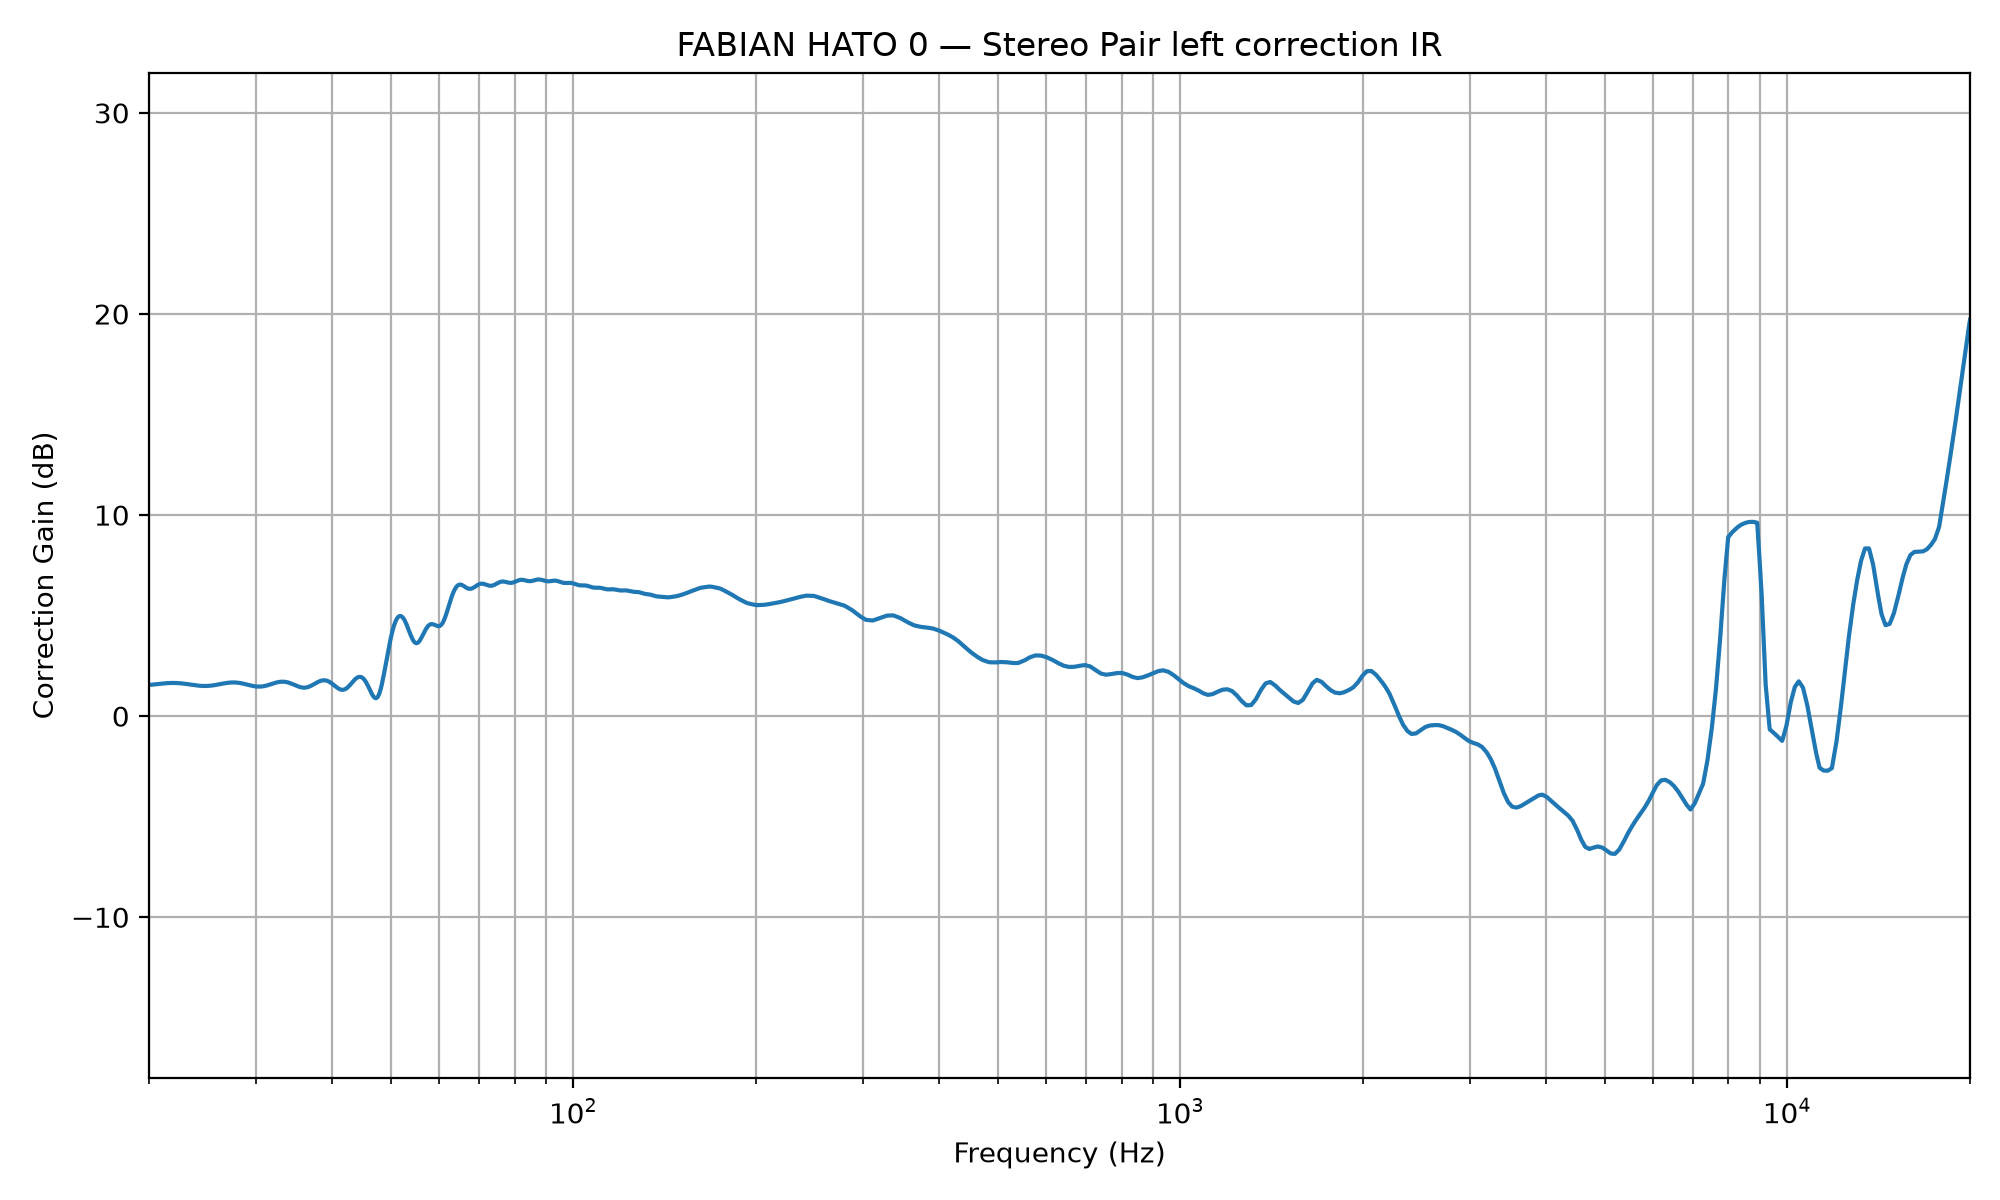
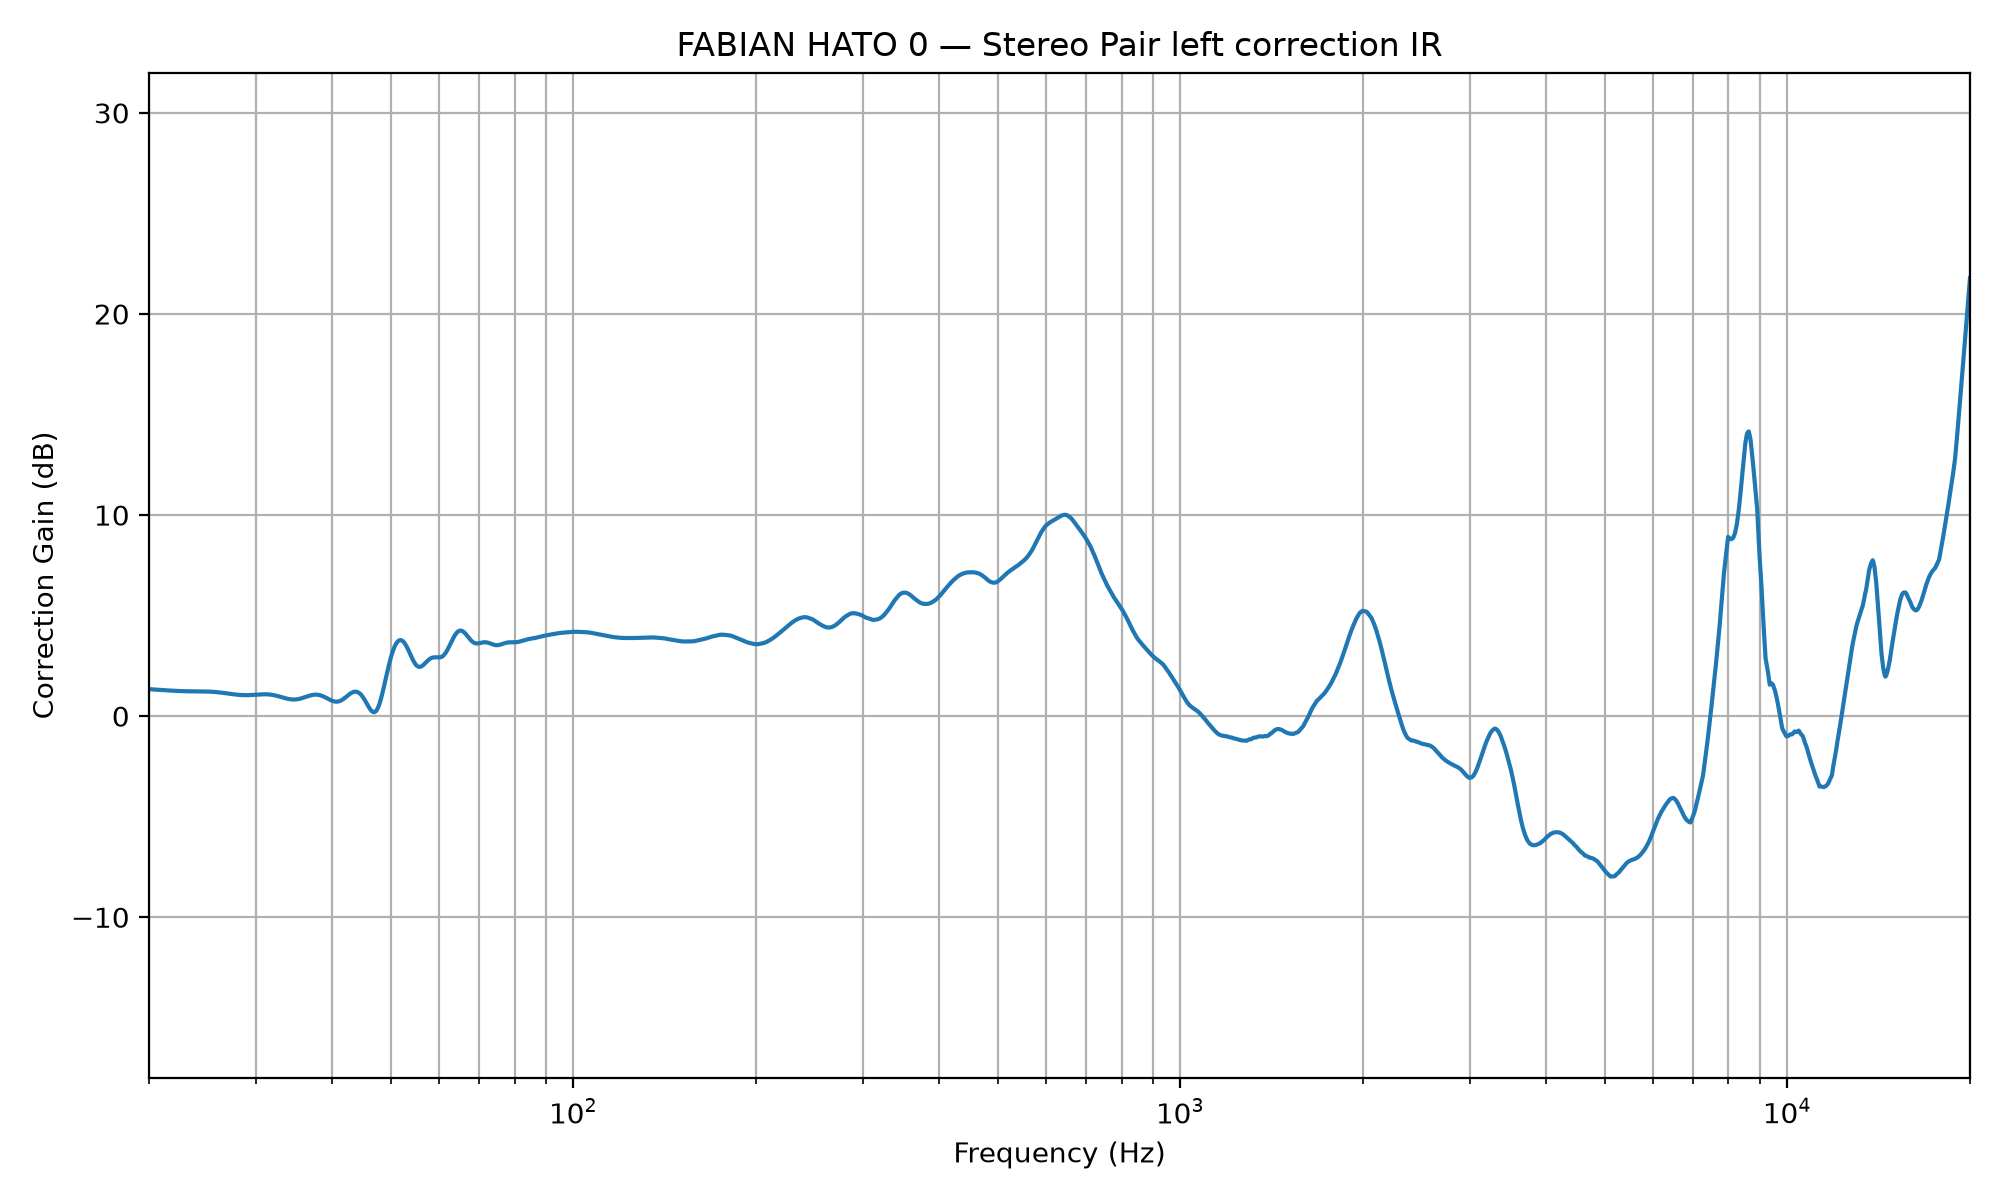
Regenerate Stereo Pair plots from final correction responses

diff --git a/Docs/MANUAL.md b/Docs/MANUAL.md
@@ -294,7 +294,7 @@ python scripts/plot_correction.py Heads/FABIAN_HATO0/stereo_pair_left_correction
 
 The tool produces a response image and a matching text description reporting boost, cut, and broad frequency-band averages. Use the graph to explore the curve and the text to compare its measured values. A correction plot describes the filter itself; the head response and separate runtime gains also contribute to the sound.
 
-The bundled [Stereo Pair plots](Correction_Plots/StereoPair/) show the earlier correction revision. The command above plots the current WAV and records its source hash in the text description.
+The bundled [Stereo Pair plots](Correction_Plots/StereoPair/) show the final correction WAVs for all five heads, including the added correction stage and tail fade. Each text description records its source file and SHA-256 hash. All plots use the same frequency and gain scales so you can compare the curves directly.
 
 The retained [Tone Trace models](Correction_Models/) show earlier stages of the correction design. The final WAV includes the combined filters and tail fade.
 
